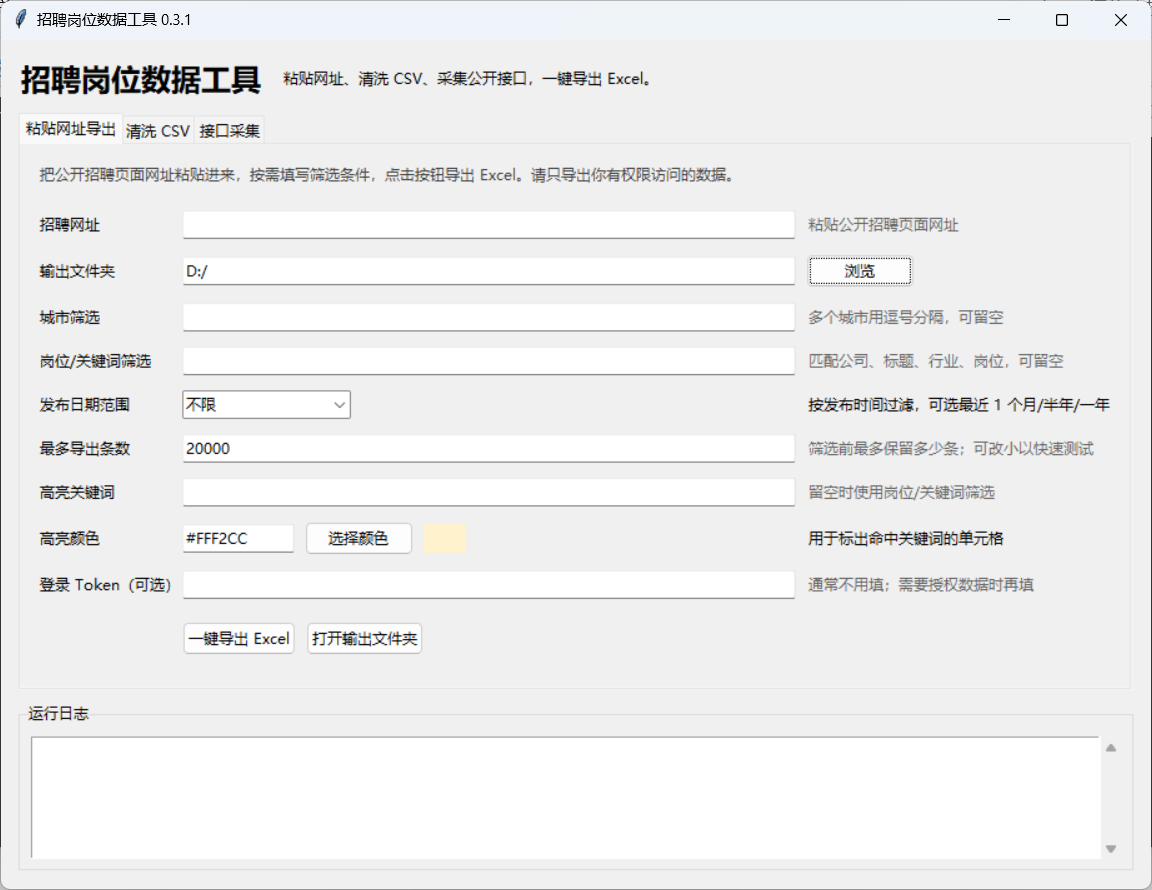
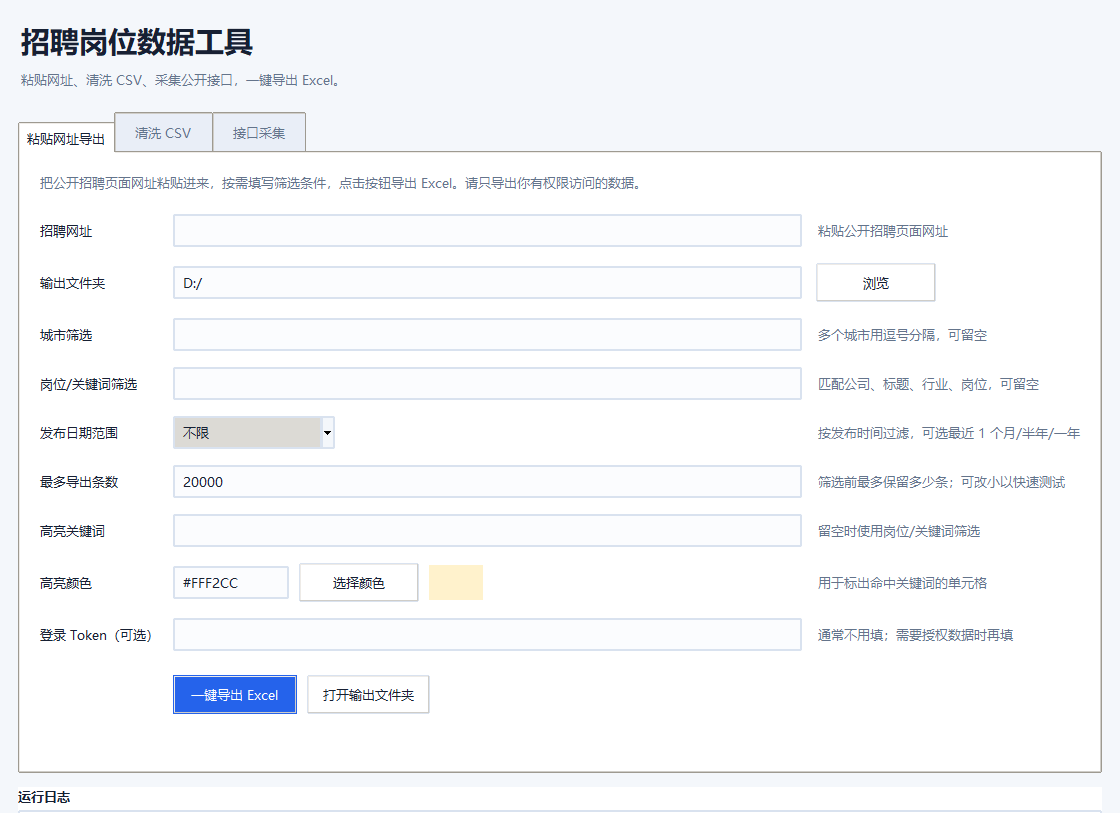
Refresh GUI styling

diff --git a/src/job_posting_cli/gui.py b/src/job_posting_cli/gui.py
@@ -22,13 +22,25 @@ DATE_RANGE_OPTIONS = {
     "近 1 年": 365,
 }
 
+BG = "#F4F7FB"
+CARD = "#FFFFFF"
+TEXT = "#172033"
+MUTED = "#64748B"
+BORDER = "#D9E2EF"
+ACCENT = "#2563EB"
+ACCENT_HOVER = "#1D4ED8"
+SOFT_ACCENT = "#EAF1FF"
+INPUT_BG = "#FBFCFE"
+
 
 class JobPostingApp(tk.Tk):
     def __init__(self) -> None:
         super().__init__()
         self.title(f"招聘岗位数据工具 {__version__}")
-        self.geometry("920x680")
-        self.minsize(760, 560)
+        self.geometry("1120x840")
+        self.minsize(980, 720)
+        self.configure(background=BG)
+        self.option_add("*Font", ("Microsoft YaHei UI", 10))
 
         self.url_vars = {
             "url": tk.StringVar(),
@@ -66,18 +78,56 @@ class JobPostingApp(tk.Tk):
             "xlsx": tk.BooleanVar(value=True),
         }
 
+        self._configure_style()
         self._build_ui()
 
+    def _configure_style(self) -> None:
+        self.style = ttk.Style(self)
+        with contextlib.suppress(tk.TclError):
+            self.style.theme_use("clam")
+
+        self.style.configure(".", font=("Microsoft YaHei UI", 10), background=BG, foreground=TEXT)
+        self.style.configure("App.TFrame", background=BG)
+        self.style.configure("Header.TFrame", background=BG)
+        self.style.configure("Card.TFrame", background=CARD, relief="flat")
+        self.style.configure("Card.TLabelframe", background=CARD, bordercolor=BORDER, relief="solid")
+        self.style.configure("Card.TLabelframe.Label", background=CARD, foreground=TEXT, font=("Microsoft YaHei UI", 10, "bold"))
+        self.style.configure("TLabel", background=CARD, foreground=TEXT)
+        self.style.configure("Title.TLabel", background=BG, foreground=TEXT, font=("Microsoft YaHei UI", 22, "bold"))
+        self.style.configure("Subtitle.TLabel", background=BG, foreground=MUTED, font=("Microsoft YaHei UI", 10))
+        self.style.configure("Hint.TLabel", background=CARD, foreground=MUTED, font=("Microsoft YaHei UI", 9))
+        self.style.configure("Field.TLabel", background=CARD, foreground=TEXT, font=("Microsoft YaHei UI", 10, "bold"))
+        self.style.configure("TEntry", fieldbackground=INPUT_BG, bordercolor=BORDER, lightcolor=BORDER, darkcolor=BORDER, padding=(8, 5))
+        self.style.configure("TCombobox", fieldbackground=INPUT_BG, bordercolor=BORDER, lightcolor=BORDER, darkcolor=BORDER, padding=(8, 5))
+        self.style.configure("TCheckbutton", background=CARD, foreground=TEXT)
+        self.style.configure("Accent.TButton", background=ACCENT, foreground="#FFFFFF", bordercolor=ACCENT, focusthickness=0, padding=(16, 8))
+        self.style.map("Accent.TButton", background=[("active", ACCENT_HOVER), ("pressed", ACCENT_HOVER)], foreground=[("disabled", "#E5E7EB")])
+        self.style.configure("Secondary.TButton", background="#FFFFFF", foreground=TEXT, bordercolor=BORDER, focusthickness=0, padding=(14, 8))
+        self.style.map("Secondary.TButton", background=[("active", SOFT_ACCENT), ("pressed", SOFT_ACCENT)])
+        self.style.configure("TNotebook", background=BG, borderwidth=0, tabmargins=(0, 6, 0, 0))
+        self.style.configure("TNotebook.Tab", background="#E9EEF7", foreground=MUTED, padding=(18, 8), borderwidth=0)
+        self.style.map("TNotebook.Tab", background=[("selected", CARD), ("active", "#F8FAFC")], foreground=[("selected", TEXT), ("active", TEXT)])
+
     def _build_ui(self) -> None:
-        root = ttk.Frame(self, padding=14)
+        root = ttk.Frame(self, padding=18, style="App.TFrame")
         root.pack(fill="both", expand=True)
 
-        header = ttk.Frame(root)
-        header.pack(fill="x", pady=(0, 10))
-        ttk.Label(header, text="招聘岗位数据工具", font=("Microsoft YaHei UI", 18, "bold")).pack(side="left")
-        ttk.Label(header, text="粘贴网址、清洗 CSV、采集公开接口，一键导出 Excel。").pack(
-            side="left", padx=(14, 0)
-        )
+        header = ttk.Frame(root, style="Header.TFrame")
+        header.pack(fill="x", pady=(0, 14))
+        tk.Label(
+            header,
+            text="招聘岗位数据工具",
+            background=BG,
+            foreground=TEXT,
+            font=("Microsoft YaHei UI", 22, "bold"),
+        ).pack(anchor="w")
+        tk.Label(
+            header,
+            text="粘贴网址、清洗 CSV、采集公开接口，一键导出 Excel。",
+            background=BG,
+            foreground=MUTED,
+            font=("Microsoft YaHei UI", 10),
+        ).pack(anchor="w", pady=(4, 0))
 
         notebook = ttk.Notebook(root)
         notebook.pack(fill="both", expand=True)
@@ -85,90 +135,101 @@ class JobPostingApp(tk.Tk):
         notebook.add(self._clean_tab(notebook), text="清洗 CSV")
         notebook.add(self._collect_tab(notebook), text="接口采集")
 
-        log_frame = ttk.LabelFrame(root, text="运行日志", padding=8)
-        log_frame.pack(fill="both", expand=False, pady=(10, 0))
-        self.log = tk.Text(log_frame, height=8, wrap="word")
+        log_frame = ttk.LabelFrame(root, text="运行日志", padding=12, style="Card.TLabelframe")
+        log_frame.pack(fill="both", expand=False, pady=(14, 0))
+        self.log = tk.Text(
+            log_frame,
+            height=7,
+            wrap="word",
+            borderwidth=0,
+            relief="flat",
+            background="#F8FAFC",
+            foreground=TEXT,
+            insertbackground=TEXT,
+            padx=10,
+            pady=8,
+        )
         self.log.pack(side="left", fill="both", expand=True)
         scrollbar = ttk.Scrollbar(log_frame, orient="vertical", command=self.log.yview)
         scrollbar.pack(side="right", fill="y")
         self.log.configure(yscrollcommand=scrollbar.set)
 
     def _url_tab(self, parent: ttk.Notebook) -> ttk.Frame:
-        frame = ttk.Frame(parent, padding=14)
+        frame = ttk.Frame(parent, padding=18, style="Card.TFrame")
         intro = ttk.Label(
             frame,
             text="把公开招聘页面网址粘贴进来，按需填写筛选条件，点击按钮导出 Excel。请只导出你有权限访问的数据。",
-            foreground="#444",
-            wraplength=760,
+            style="Hint.TLabel",
+            wraplength=820,
         )
         intro.grid(row=0, column=0, columnspan=3, sticky="w", pady=(0, 12))
         self._entry_row(frame, 1, "招聘网址", self.url_vars["url"], "粘贴公开招聘页面网址")
         self._path_row(frame, 2, "输出文件夹", self.url_vars["out_dir"], self._choose_url_out_dir)
         self._entry_row(frame, 3, "城市筛选", self.url_vars["cities"], "多个城市用逗号分隔，可留空")
         self._entry_row(frame, 4, "岗位/关键词筛选", self.url_vars["keywords"], "匹配公司、标题、行业、岗位，可留空")
-        ttk.Label(frame, text="发布日期范围").grid(row=5, column=0, sticky="w", pady=6)
+        ttk.Label(frame, text="发布日期范围", style="Field.TLabel").grid(row=5, column=0, sticky="w", pady=8, padx=(0, 12))
         ttk.Combobox(
             frame,
             textvariable=self.url_vars["date_range"],
             values=list(DATE_RANGE_OPTIONS.keys()),
             width=16,
             state="readonly",
-        ).grid(row=5, column=1, sticky="w", pady=6)
-        ttk.Label(frame, text="按发布时间过滤，可选最近 1 个月/半年/一年").grid(row=5, column=2, sticky="w", padx=(8, 0))
+        ).grid(row=5, column=1, sticky="w", pady=8)
+        ttk.Label(frame, text="按发布时间过滤，可选最近 1 个月/半年/一年", style="Hint.TLabel").grid(row=5, column=2, sticky="w", padx=(14, 0))
         self._entry_row(frame, 6, "最多导出条数", self.url_vars["max_records"], "筛选前最多保留多少条；可改小以快速测试")
         self._entry_row(frame, 7, "高亮关键词", self.url_vars["highlight_keywords"], "留空时使用岗位/关键词筛选")
         self._color_row(frame, 8)
         self._entry_row(frame, 9, "登录 Token（可选）", self.url_vars["token"], "通常不用填；需要授权数据时再填")
 
-        actions = ttk.Frame(frame)
-        actions.grid(row=10, column=1, sticky="w", pady=(12, 0))
-        ttk.Button(actions, text="一键导出 Excel", command=self.run_url_export).pack(side="left")
-        ttk.Button(actions, text="打开输出文件夹", command=lambda: self._open_folder(self.url_vars["out_dir"].get())).pack(
-            side="left", padx=(8, 0)
+        actions = ttk.Frame(frame, style="Card.TFrame")
+        actions.grid(row=10, column=1, sticky="w", pady=(16, 0))
+        ttk.Button(actions, text="一键导出 Excel", style="Accent.TButton", command=self.run_url_export).pack(side="left")
+        ttk.Button(actions, text="打开输出文件夹", style="Secondary.TButton", command=lambda: self._open_folder(self.url_vars["out_dir"].get())).pack(
+            side="left", padx=(10, 0)
         )
         self._configure_grid(frame)
         return frame
 
     def _clean_tab(self, parent: ttk.Notebook) -> ttk.Frame:
-        frame = ttk.Frame(parent, padding=14)
+        frame = ttk.Frame(parent, padding=18, style="Card.TFrame")
         self._path_row(frame, 0, "输入 CSV", self.clean_vars["input_csv"], self._choose_csv)
         self._path_row(frame, 1, "输出文件夹", self.clean_vars["out_dir"], self._choose_clean_out_dir)
         self._entry_row(frame, 2, "城市筛选", self.clean_vars["cities"], "上海,北京,深圳")
         self._entry_row(frame, 3, "关键词筛选", self.clean_vars["keywords"], "AI,大模型,数据分析")
         self._entry_row(frame, 4, "最低薪资", self.clean_vars["salary_min"], "8000")
         ttk.Checkbutton(frame, text="同时导出格式化 XLSX 文件", variable=self.clean_vars["xlsx"]).grid(
-            row=5, column=1, sticky="w", pady=8
+            row=5, column=1, sticky="w", pady=10
         )
 
-        actions = ttk.Frame(frame)
-        actions.grid(row=6, column=1, sticky="w", pady=(12, 0))
-        ttk.Button(actions, text="开始清洗", command=self.run_clean).pack(side="left")
-        ttk.Button(actions, text="打开输出文件夹", command=lambda: self._open_folder(self.clean_vars["out_dir"].get())).pack(
-            side="left", padx=(8, 0)
+        actions = ttk.Frame(frame, style="Card.TFrame")
+        actions.grid(row=6, column=1, sticky="w", pady=(16, 0))
+        ttk.Button(actions, text="开始清洗", style="Accent.TButton", command=self.run_clean).pack(side="left")
+        ttk.Button(actions, text="打开输出文件夹", style="Secondary.TButton", command=lambda: self._open_folder(self.clean_vars["out_dir"].get())).pack(
+            side="left", padx=(10, 0)
         )
         self._configure_grid(frame)
         return frame
 
     def _collect_tab(self, parent: ttk.Notebook) -> ttk.Frame:
-        frame = ttk.Frame(parent, padding=14)
+        frame = ttk.Frame(parent, padding=18, style="Card.TFrame")
         self._entry_row(frame, 0, "接口地址", self.collect_vars["url"], "https://example.com/api/jobs")
-        ttk.Label(frame, text="请求方法").grid(row=1, column=0, sticky="w", pady=6)
+        ttk.Label(frame, text="请求方法", style="Field.TLabel").grid(row=1, column=0, sticky="w", pady=8, padx=(0, 12))
         ttk.Combobox(frame, textvariable=self.collect_vars["method"], values=["POST", "GET"], width=12, state="readonly").grid(
-            row=1, column=1, sticky="w", pady=6
+            row=1, column=1, sticky="w", pady=8
         )
 
-        ttk.Label(frame, text="请求头 JSON").grid(row=2, column=0, sticky="nw", pady=6)
-        self.headers_text = tk.Text(frame, height=4, width=70)
+        ttk.Label(frame, text="请求头 JSON", style="Field.TLabel").grid(row=2, column=0, sticky="nw", pady=8, padx=(0, 12))
+        self.headers_text = tk.Text(frame, height=4, width=70, borderwidth=1, relief="solid", background=INPUT_BG, foreground=TEXT, padx=8, pady=6)
         self.headers_text.insert("1.0", "{}")
-        self.headers_text.grid(row=2, column=1, sticky="ew", pady=6)
+        self.headers_text.grid(row=2, column=1, sticky="ew", pady=8)
 
-        ttk.Label(frame, text="参数 JSON").grid(row=3, column=0, sticky="nw", pady=6)
-        self.payload_text = tk.Text(frame, height=5, width=70)
+        ttk.Label(frame, text="参数 JSON", style="Field.TLabel").grid(row=3, column=0, sticky="nw", pady=8, padx=(0, 12))
+        self.payload_text = tk.Text(frame, height=5, width=70, borderwidth=1, relief="solid", background=INPUT_BG, foreground=TEXT, padx=8, pady=6)
         self.payload_text.insert("1.0", "{}")
-        self.payload_text.grid(row=3, column=1, sticky="ew", pady=6)
+        self.payload_text.grid(row=3, column=1, sticky="ew", pady=8)
 
-        paths = ttk.Frame(frame)
-        paths.grid(row=4, column=1, sticky="ew", pady=6)
+        paths = ttk.Frame(frame, style="Card.TFrame")
+        paths.grid(row=4, column=1, sticky="ew", pady=8)
         for index, (label, key, width) in enumerate(
             [
                 ("页码", "page_param", 10),
@@ -178,11 +239,11 @@ class JobPostingApp(tk.Tk):
                 ("总页路径", "pages_path", 14),
             ]
         ):
-            ttk.Label(paths, text=label).grid(row=0, column=index * 2, sticky="w", padx=(0, 4))
-            ttk.Entry(paths, textvariable=self.collect_vars[key], width=width).grid(row=0, column=index * 2 + 1, padx=(0, 8))
+            ttk.Label(paths, text=label, style="Hint.TLabel").grid(row=0, column=index * 2, sticky="w", padx=(0, 5))
+            ttk.Entry(paths, textvariable=self.collect_vars[key], width=width).grid(row=0, column=index * 2 + 1, padx=(0, 10))
 
-        numbers = ttk.Frame(frame)
-        numbers.grid(row=5, column=1, sticky="ew", pady=6)
+        numbers = ttk.Frame(frame, style="Card.TFrame")
+        numbers.grid(row=5, column=1, sticky="ew", pady=8)
         for index, (label, key, width) in enumerate(
             [
                 ("每页数量", "page_size", 8),
@@ -192,44 +253,44 @@ class JobPostingApp(tk.Tk):
                 ("超时", "timeout", 8),
             ]
         ):
-            ttk.Label(numbers, text=label).grid(row=0, column=index * 2, sticky="w", padx=(0, 4))
-            ttk.Entry(numbers, textvariable=self.collect_vars[key], width=width).grid(row=0, column=index * 2 + 1, padx=(0, 8))
+            ttk.Label(numbers, text=label, style="Hint.TLabel").grid(row=0, column=index * 2, sticky="w", padx=(0, 5))
+            ttk.Entry(numbers, textvariable=self.collect_vars[key], width=width).grid(row=0, column=index * 2 + 1, padx=(0, 10))
 
         self._path_row(frame, 6, "输出文件夹", self.collect_vars["out_dir"], self._choose_collect_out_dir)
         ttk.Checkbutton(frame, text="同时导出格式化 XLSX 文件", variable=self.collect_vars["xlsx"]).grid(
-            row=7, column=1, sticky="w", pady=8
+            row=7, column=1, sticky="w", pady=10
         )
 
-        actions = ttk.Frame(frame)
-        actions.grid(row=8, column=1, sticky="w", pady=(12, 0))
-        ttk.Button(actions, text="开始采集", command=self.run_collect).pack(side="left")
-        ttk.Button(actions, text="打开输出文件夹", command=lambda: self._open_folder(self.collect_vars["out_dir"].get())).pack(
-            side="left", padx=(8, 0)
+        actions = ttk.Frame(frame, style="Card.TFrame")
+        actions.grid(row=8, column=1, sticky="w", pady=(16, 0))
+        ttk.Button(actions, text="开始采集", style="Accent.TButton", command=self.run_collect).pack(side="left")
+        ttk.Button(actions, text="打开输出文件夹", style="Secondary.TButton", command=lambda: self._open_folder(self.collect_vars["out_dir"].get())).pack(
+            side="left", padx=(10, 0)
         )
         self._configure_grid(frame)
         return frame
 
     def _entry_row(self, parent: ttk.Frame, row: int, label: str, variable: tk.StringVar, placeholder: str = "") -> None:
-        ttk.Label(parent, text=label).grid(row=row, column=0, sticky="w", pady=6)
+        ttk.Label(parent, text=label, style="Field.TLabel").grid(row=row, column=0, sticky="w", pady=8, padx=(0, 12))
         entry = ttk.Entry(parent, textvariable=variable)
-        entry.grid(row=row, column=1, sticky="ew", pady=6)
+        entry.grid(row=row, column=1, sticky="ew", pady=8)
         if placeholder:
-            ttk.Label(parent, text=placeholder, foreground="#666").grid(row=row, column=2, sticky="w", padx=(8, 0))
+            ttk.Label(parent, text=placeholder, style="Hint.TLabel").grid(row=row, column=2, sticky="w", padx=(14, 0))
 
     def _path_row(self, parent: ttk.Frame, row: int, label: str, variable: tk.StringVar, command) -> None:
-        ttk.Label(parent, text=label).grid(row=row, column=0, sticky="w", pady=6)
-        ttk.Entry(parent, textvariable=variable).grid(row=row, column=1, sticky="ew", pady=6)
-        ttk.Button(parent, text="浏览", command=command).grid(row=row, column=2, sticky="w", padx=(8, 0), pady=6)
+        ttk.Label(parent, text=label, style="Field.TLabel").grid(row=row, column=0, sticky="w", pady=8, padx=(0, 12))
+        ttk.Entry(parent, textvariable=variable).grid(row=row, column=1, sticky="ew", pady=8)
+        ttk.Button(parent, text="浏览", style="Secondary.TButton", command=command).grid(row=row, column=2, sticky="w", padx=(14, 0), pady=8)
 
     def _color_row(self, parent: ttk.Frame, row: int) -> None:
-        ttk.Label(parent, text="高亮颜色").grid(row=row, column=0, sticky="w", pady=6)
-        color_frame = ttk.Frame(parent)
-        color_frame.grid(row=row, column=1, sticky="w", pady=6)
+        ttk.Label(parent, text="高亮颜色", style="Field.TLabel").grid(row=row, column=0, sticky="w", pady=8, padx=(0, 12))
+        color_frame = ttk.Frame(parent, style="Card.TFrame")
+        color_frame.grid(row=row, column=1, sticky="w", pady=8)
         ttk.Entry(color_frame, textvariable=self.url_vars["highlight_color"], width=12).pack(side="left")
-        ttk.Button(color_frame, text="选择颜色", command=self._choose_highlight_color).pack(side="left", padx=(8, 0))
-        self.highlight_swatch = tk.Label(color_frame, width=4, background=self.url_vars["highlight_color"].get())
-        self.highlight_swatch.pack(side="left", padx=(8, 0))
-        ttk.Label(parent, text="用于标出命中关键词的单元格").grid(row=row, column=2, sticky="w", padx=(8, 0))
+        ttk.Button(color_frame, text="选择颜色", style="Secondary.TButton", command=self._choose_highlight_color).pack(side="left", padx=(10, 0))
+        self.highlight_swatch = tk.Label(color_frame, width=4, height=1, background=self.url_vars["highlight_color"].get(), relief="flat")
+        self.highlight_swatch.pack(side="left", padx=(10, 0), ipadx=8, ipady=5)
+        ttk.Label(parent, text="用于标出命中关键词的单元格", style="Hint.TLabel").grid(row=row, column=2, sticky="w", padx=(14, 0))
 
     @staticmethod
     def _configure_grid(frame: ttk.Frame) -> None: